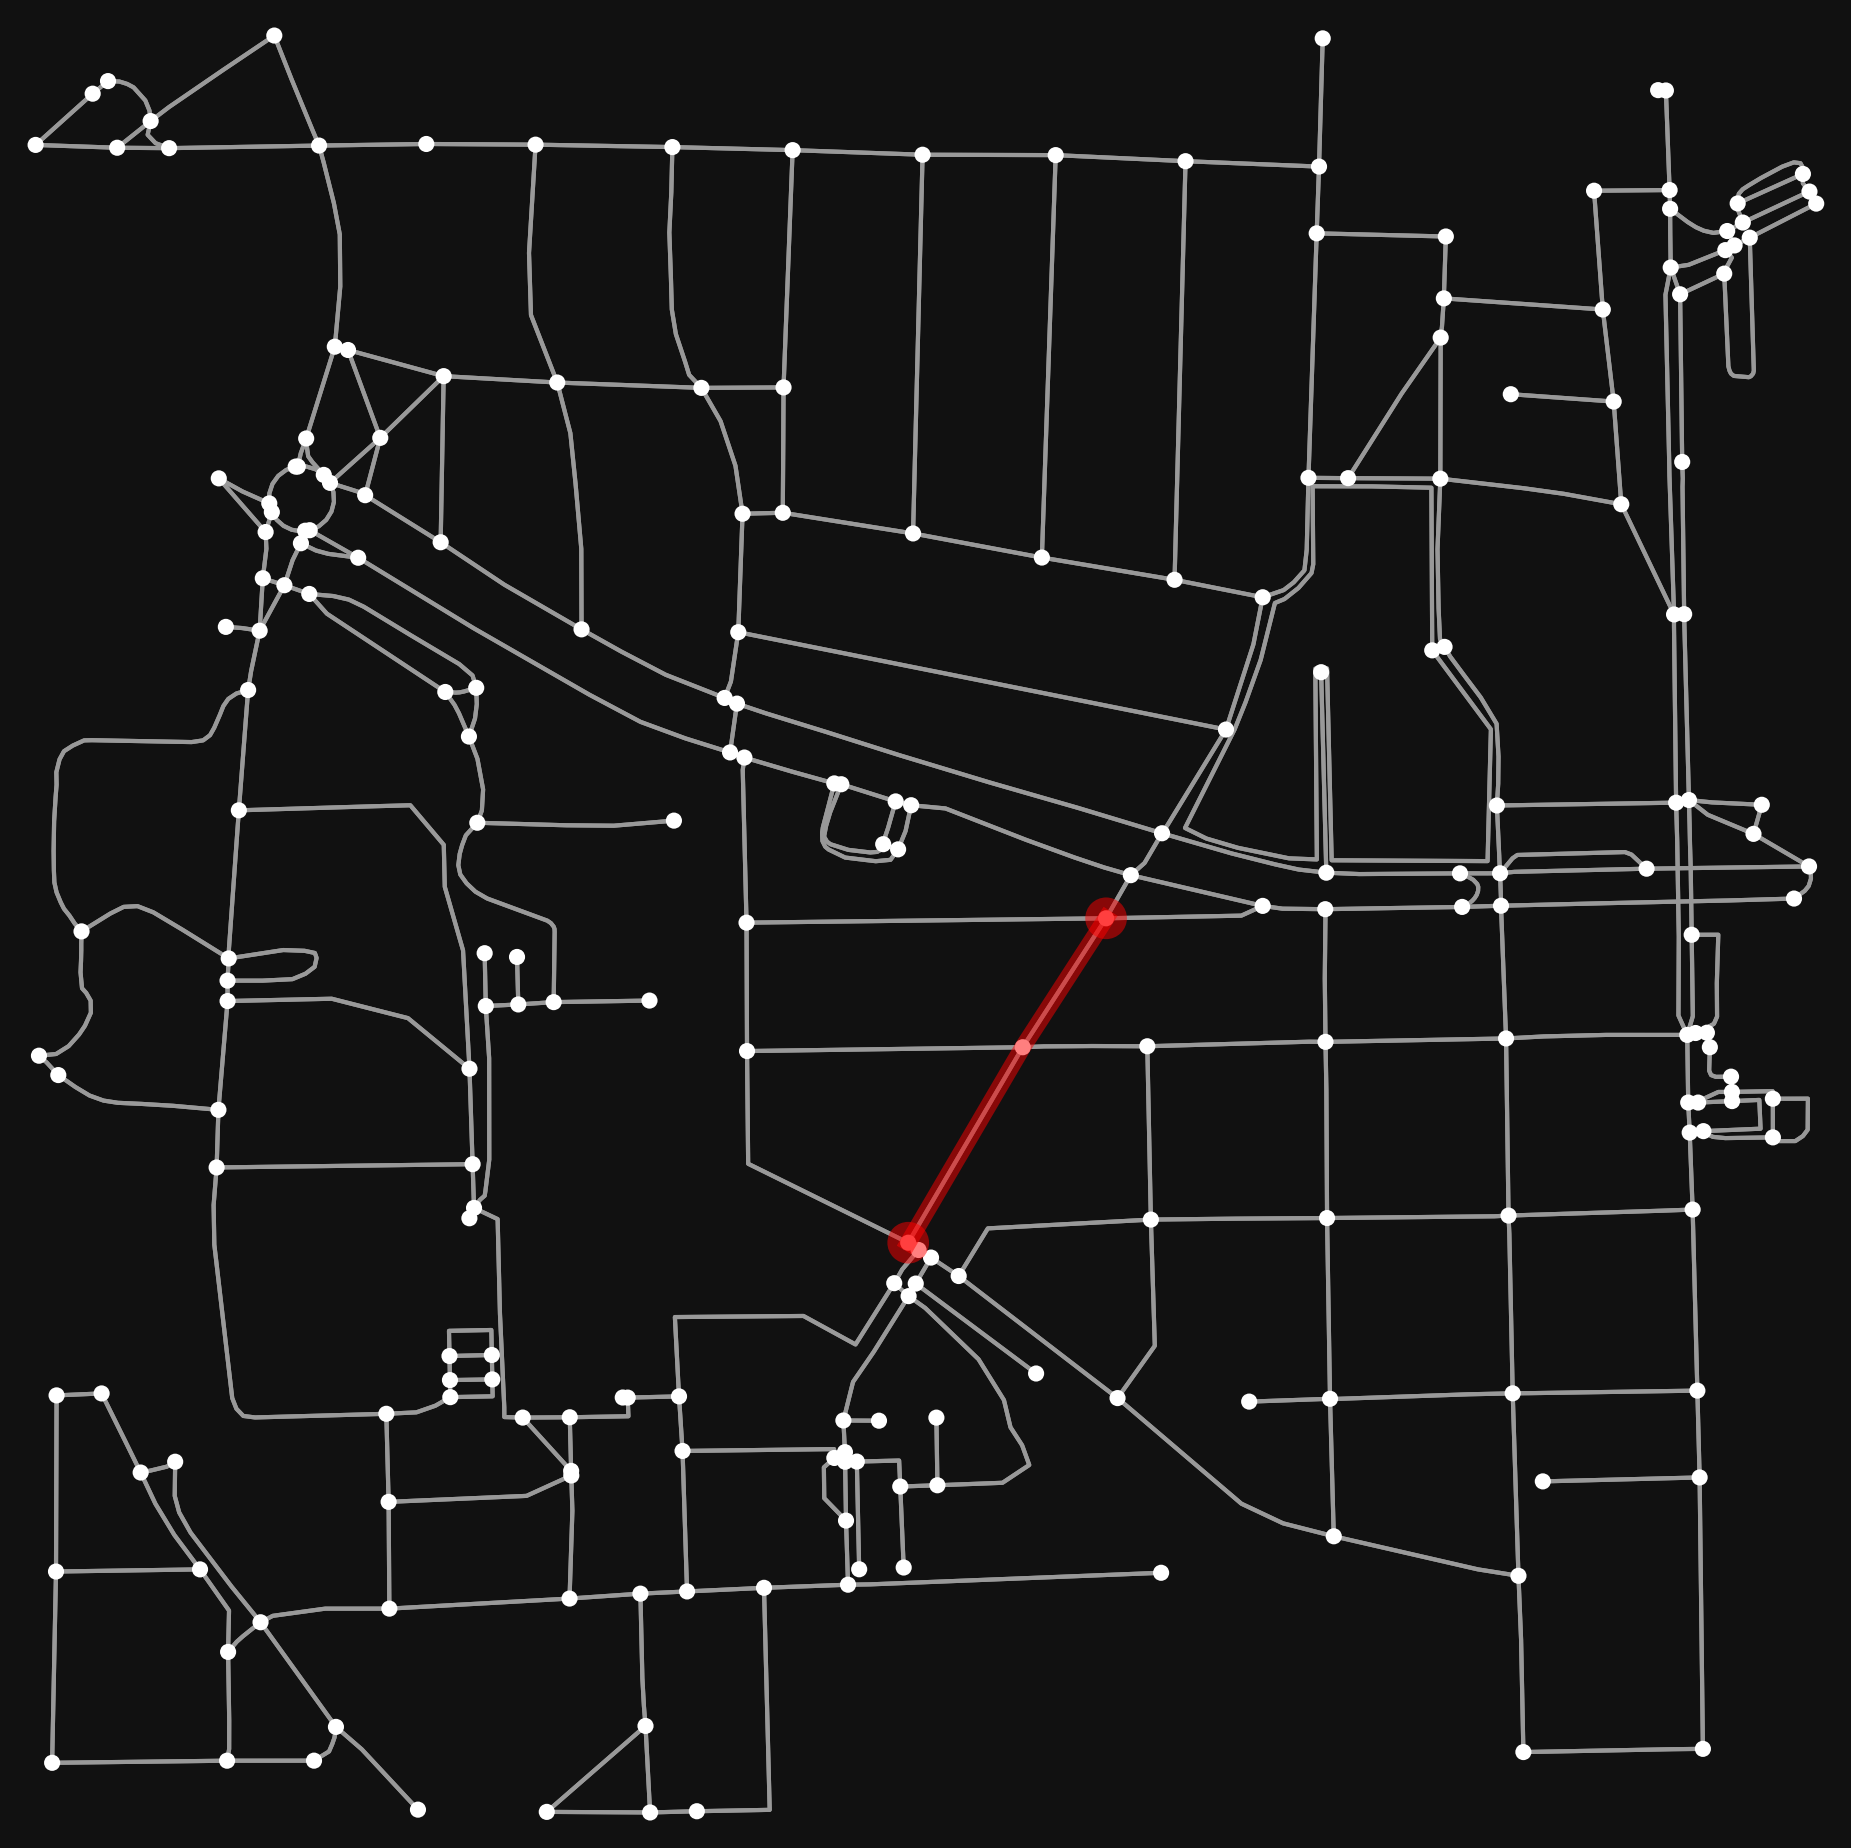
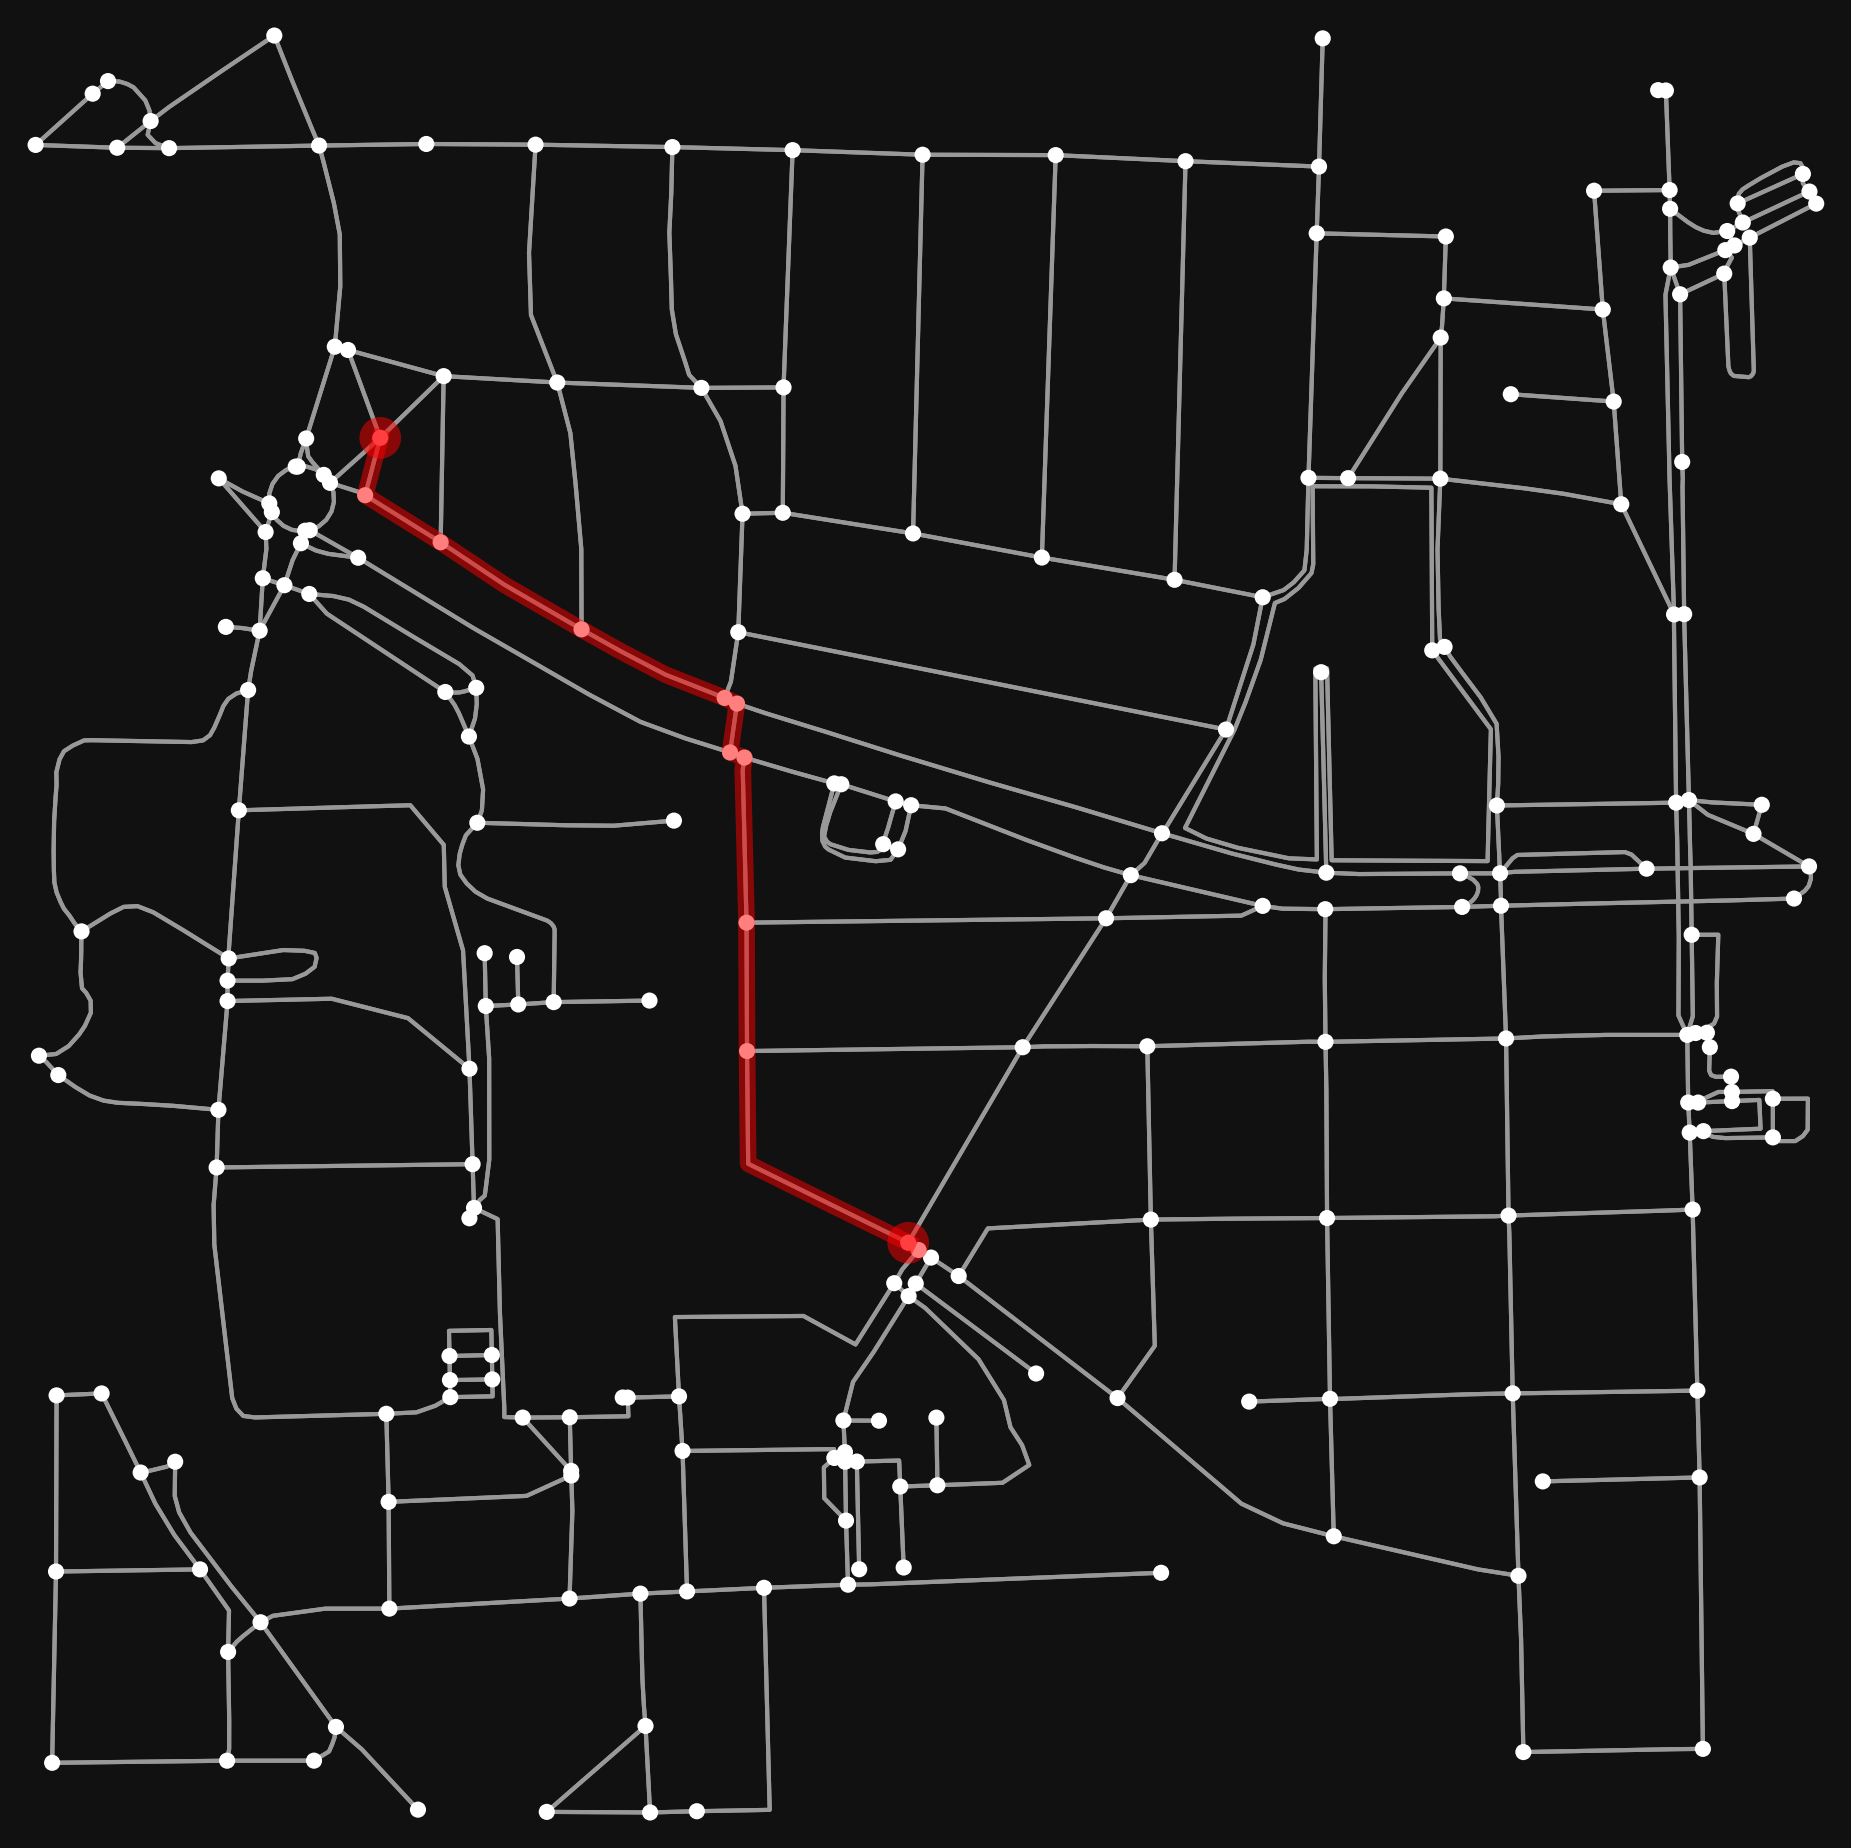
experimento 1 e 2 100% finalizados, resultados computados

diff --git a/main.py b/main.py
@@ -25,7 +25,7 @@ def experimento_1():
     
     # OpenStreetMap usa ids fixos para identificar nós
     # Define nós de inicio e fim
-    inicio = 492900394  # Salomão Dibbo 151
+    inicio = 505829905
     fim = 330073747  # Saída da matemática
 
     # Configurações quanto à salvar ou exibir caminhos
@@ -58,8 +58,7 @@ def experimento_1():
 
     # Salvar figura do comprimento dos caminhos
     axs.set_title('Comprimento dos caminhos por algoritmo')
-    axs.set_xlabel('Algoritmo')
-    axs.set_ylabel('Comprimento do caminho (metros)')
+    axs.set_ylabel('Comprimento do caminho (m)')
     fig_comps.tight_layout()
     fig_comps.savefig(fname="./resultados/experimento_1/comprimentos.png")
 
@@ -73,58 +72,76 @@ def experimento_2():
 
     # Selecionar 10 pares de vértices distintos
     np.random.seed(0)
-    pares_vertices = [tuple(np.random.choice(2000, 2, replace=False)) for _ in range(10)]
+    pares_vertices = [tuple(np.random.choice(2000, 2, replace=False)) for _ in range(100)]
 
     # Resultados de distância e tempo
     resultados_distancia = {nome: [] for nome in nomes_algoritmos}
     resultados_tempo = {nome: [] for nome in nomes_algoritmos}
+    resultados_ncaminhos = {nome: [] for nome in nomes_algoritmos}
 
     # função distância para o g(n) no A*
     dist_func = lambda grafo, a, b: grafo[a][b]['weight']
 
     # Avaliar os algoritmos nos grafos
-    for i, grafo in enumerate(grafos):
+    for grafo in grafos:
         for func, nome in zip(funcoes_busca, nomes_algoritmos):
             distancias = []
             tempos = []
+            n_caminhos_completos = 0
             for origem, destino in pares_vertices:
                 inicio = time.time()
                 caminho = func(grafo, origem, destino, heuristica_custom, dist_func)
                 fim = time.time()
 
-                if caminho and caminho[-1] == destino:
+                if caminho and caminho[-1]==destino:
                     distancia = sum(grafo[u][v]['weight'] for u, v in zip(caminho[:-1], caminho[1:]))
                     distancias.append(distancia)
+                    n_caminhos_completos += 1
                 tempos.append(fim - inicio)
 
             # Média das distâncias e tempos
             resultados_distancia[nome].append(np.mean(distancias) if distancias else 0)
             resultados_tempo[nome].append(np.mean(tempos))
+            resultados_ncaminhos[nome].append(n_caminhos_completos)
 
     # Plotar os gráficos
-    fig, axes = plt.subplots(2, 1, figsize=(14, 10))
+    fig, axes = plt.subplots(3, 1, figsize=(14, 14))
     x = np.arange(len(nomes_algoritmos))
     largura = 0.25
+    
     for i, label in enumerate(['λ=0.01', 'λ=0.02', 'λ=0.03']):
-        axes[0].bar(x + i * largura, [resultados_distancia[nome][i] for nome in nomes_algoritmos], 
-                    width=largura, label=label)
+        axes[0].bar(x + i * largura, [resultados_distancia[nome][i] for nome in nomes_algoritmos], width=largura, label=label)
 
     axes[0].set_title('Distância Média dos Caminhos')
     axes[0].set_xticks(x + largura, nomes_algoritmos)
     axes[0].set_ylabel('Distância Média (m)')
     axes[0].legend(loc='upper left', ncols=3)
+    axes[0].set_yscale("log")
 
     # Gráfico de tempos
     for i, label in enumerate(['λ=0.01', 'λ=0.02', 'λ=0.03']):
-        axes[1].bar(x + i * largura, [resultados_tempo[nome][i] for nome in nomes_algoritmos], 
-                    width=largura, label=label)
+        axes[1].bar(x + i * largura, [resultados_tempo[nome][i] for nome in nomes_algoritmos], width=largura, label=label)
 
     axes[1].set_title('Tempo Médio de Execução')
     axes[1].set_xticks(x + largura, nomes_algoritmos)
     axes[1].set_ylabel('Tempo (s)')
     axes[1].legend(loc='upper left', ncols=3)
+    axes[1].set_yscale("log")
 
-    fig.tight_layout
+    # Gráfico de n_caminhos
+    for i, label in enumerate(['λ=0.01', 'λ=0.02', 'λ=0.03']):
+        axes[2].bar(x + i * largura, [resultados_ncaminhos[nome][i] for nome in nomes_algoritmos], width=largura, label=label)
+
+    # Para fazer caber a legenda sem sobreposição com o gráfico    
+    y_min, y_max = axes[2].get_ylim()
+    axes[2].set_ylim(y_min, y_max*1.1)
+
+    axes[2].set_title('Número de caminhos completos encontrados')
+    axes[2].set_xticks(x + largura, nomes_algoritmos)
+    axes[2].set_ylabel('Número de caminhos')
+    axes[2].legend(loc='upper left', ncols=3)
+
+    fig.tight_layout()
     os.makedirs("./resultados/experimento_2", exist_ok=True)
     fig.savefig(fname="./resultados/experimento_2/metricas.png")
 
@@ -134,6 +151,6 @@ def experimento_3():
     return 1
 
 if __name__ == "__main__":
-    # experimento_1()
+    experimento_1()
     experimento_2()
     # experimento_3()

diff --git a/algoritmos/a_estrela.py b/algoritmos/a_estrela.py
@@ -21,7 +21,7 @@ def a_estrela(grafo, inicio, fim, heuristica, dist_func):
             if dist_g < dists[vizinho]:
                 predecessor[vizinho] = atual
                 dists[vizinho] = dist_g
-                heuristica_f = dist_g + heuristica(grafo, atual, fim)
+                heuristica_f = dist_g + heuristica(grafo, vizinho, fim)
                 heappush(fila_prioridade, (heuristica_f, vizinho))
 
     if(predecessor[fim] == -1):

diff --git a/geracao/geracacao_osm.py b/geracao/geracacao_osm.py
@@ -3,5 +3,4 @@ import osmnx as ox
 def gera_grafo(dist=500):
     endereco = "R. Salomão Dibbo, 151"
     grafo = ox.graph.graph_from_address(endereco, dist=dist, network_type="walk")
-    # grafo = ox.convert.to_digraph(multi)
     return grafo
